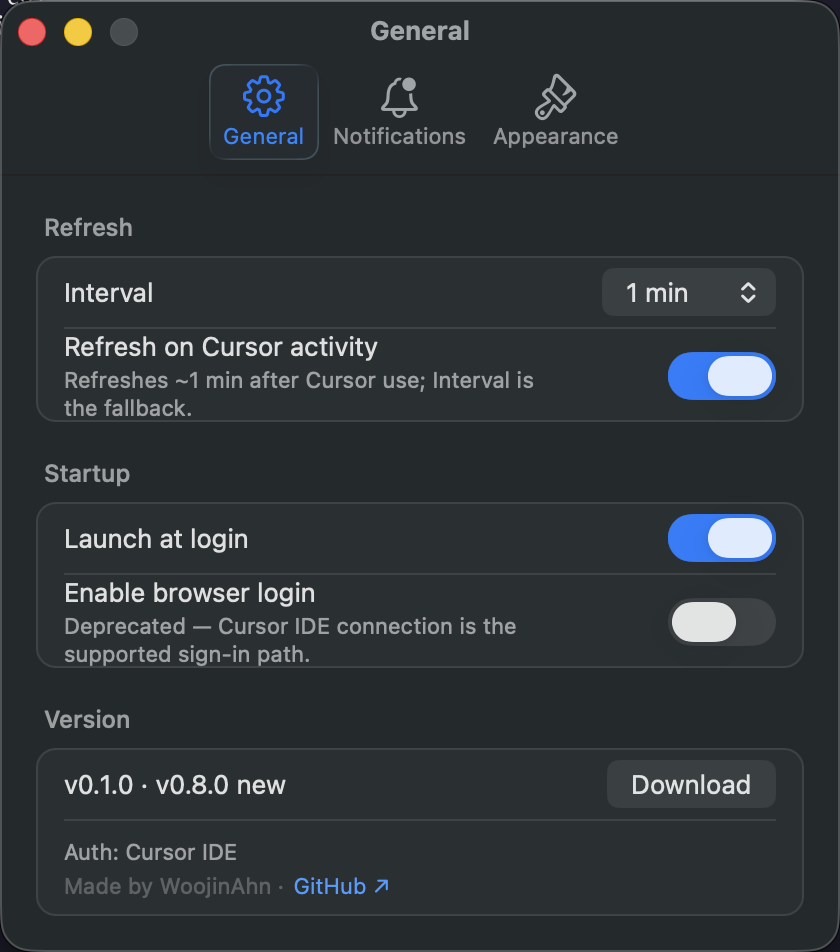
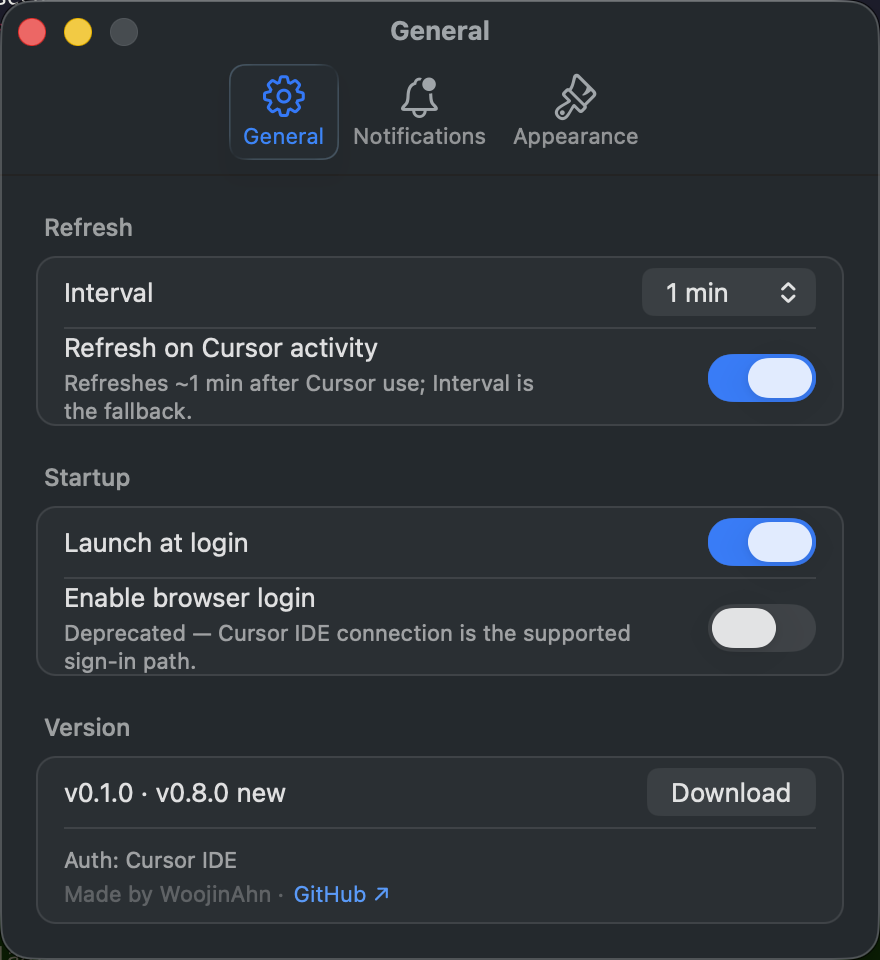
[#101] ux: wider captions and roomier card rows in Settings
contentWidth 420→440; caption preferredMaxLayoutWidth pinned to 300
(≤ real available width — above it long captions clip instead of
wrapping); captioned rows get 12pt vertical padding.

diff --git a/Sources/CursorMeter/SettingsCardFactory.swift b/Sources/CursorMeter/SettingsCardFactory.swift
@@ -7,7 +7,7 @@ import AppKit
 @MainActor
 enum SettingsCardFactory {
 
-    static let contentWidth: CGFloat = 420
+    static let contentWidth: CGFloat = 440
 
     // MARK: Section
 
@@ -98,7 +98,7 @@ enum SettingsCardFactory {
         let textStack = NSStackView(views: [titleLabel])
         textStack.orientation = .vertical
         textStack.alignment = .leading
-        textStack.spacing = 2
+        textStack.spacing = 3
         if let caption {
             textStack.addArrangedSubview(makeCaption(caption))
         }
@@ -110,7 +110,10 @@ enum SettingsCardFactory {
         row.orientation = .horizontal
         row.alignment = .centerY
         row.spacing = 12
-        row.edgeInsets = NSEdgeInsets(top: 10, left: 14, bottom: 10, right: 14)
+        // Captioned rows breathe a little more — a wrapped caption against
+        // a 10 pt bottom edge reads cramped (#101).
+        let vPad: CGFloat = caption == nil ? 10 : 12
+        row.edgeInsets = NSEdgeInsets(top: vPad, left: 14, bottom: vPad, right: 14)
         return row
     }
 
@@ -138,7 +141,12 @@ enum SettingsCardFactory {
         label.textColor = .secondaryLabelColor
         label.isSelectable = false
         label.setContentCompressionResistancePriority(.defaultLow, for: .horizontal)
-        label.preferredMaxLayoutWidth = 260
+        // Must stay ≤ the real available width or long captions CLIP instead
+        // of wrapping: intrinsic height is computed at this width, so a value
+        // above the layout width yields a 1-line intrinsic that then gets
+        // compressed. Available: contentWidth 440 − root insets 36 − row
+        // insets 28 − spacing 12 − NSSwitch ≈ 54 → ≈ 310 (#101).
+        label.preferredMaxLayoutWidth = 300
         return label
     }
 